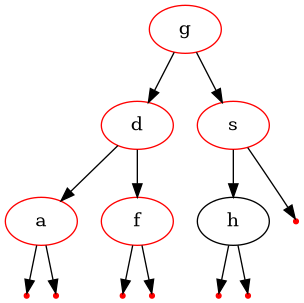
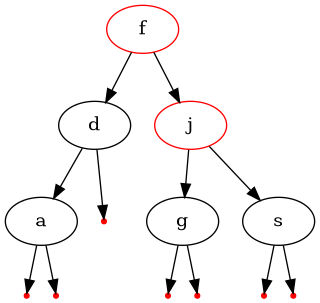
add avl tree functions

diff --git a/lab_07_01_hash_table_avl_tree/src/avl_tree.c b/lab_07_01_hash_table_avl_tree/src/avl_tree.c
@@ -26,7 +26,7 @@ void print_data(avl_tree_t *subtree, void *arg)
 {
     (void)arg;
     data_t data = subtree->data;
-    printf("%d ", data.value);
+    printf("%c ", data.value);
 }
 
 /**
@@ -255,9 +255,17 @@ void avl_tree_apply_inorder(avl_tree_t *tree, avl_tree_apply_fn_t apply_func, vo
     if (!tree)
         return;
 
-    avl_tree_apply_inorder(tree->left, apply_func, arg);
+    int *i_arg = NULL;
+    if (arg)
+        i_arg = arg;
+
+    // int *i_null = NULL;
+    //*i_null = 0;
+    avl_tree_apply_inorder(tree->left, apply_func, NULL);
     apply_func(tree, arg);
-    avl_tree_apply_inorder(tree->right, apply_func, arg);
+    avl_tree_apply_inorder(tree->right, apply_func, NULL);
+    if (i_arg && *i_arg == 1)
+        printf("\n");
 }
 
 void avl_tree_apply_postorder(avl_tree_t *tree, avl_tree_apply_fn_t apply_func, void *arg)
@@ -300,6 +308,160 @@ void avl_tree_convert_from_string(avl_tree_t **tree, char *string)
         avl_tree_insert(tree, data);
         ptr++;
     }
+}
+
+avl_tree_t *avl_tree_find_min_node(avl_tree_t *tree)
+{
+    if (tree == NULL)
+        return NULL;
+
+    if (tree->left)
+        return avl_tree_find_min_node(tree->left);
+
+    return tree;
+}
+
+/**
+ * @brief Функция балансирует AVL дерево
+ * @param[in] root корень дерева
+ * @return Новый указатель на корень
+ */
+avl_tree_t *avl_tree_node_balance(avl_tree_t *root)
+{
+    if (root == NULL)
+        return NULL;
+
+    avl_tree_fix_height(root);
+    int balance_factor = avl_tree_calculate_balance_factor(root);
+    if (balance_factor > 1)
+    {
+        if (avl_tree_calculate_balance_factor(root->left) < 0)
+        {
+            root->left = avl_tree_rotate_left(root->left);
+        }
+        return avl_tree_rotate_right(root);
+    }
+    else if (balance_factor < -1)
+    {
+        if (avl_tree_calculate_balance_factor(root->right) > 0)
+        {
+            root->right = avl_tree_rotate_right(root->right);
+        }
+        return avl_tree_rotate_left(root);
+    }
+
+    return root;
+}
+
+/**
+ * @brief Функция удаляет узел с минимальным ключе
+ * @param[in] head Указатель на дерево
+ * @return Указатель на новый корень
+ */
+static avl_tree_t *avl_tree_remove_min_node(avl_tree_t *tree)
+{
+    if (tree == NULL)
+        return NULL;
+
+    if (tree->left == NULL)
+        return tree->right;
+
+    tree->left = avl_tree_remove_min_node(tree->left);
+
+    return avl_tree_node_balance(tree);
+}
+
+/**
+ * @brief Удаление элемента из дерева
+ * @param[in] tree Указатель на дерево
+ * @param[in] element элемент
+ */
+avl_tree_t *avl_tree_remove(avl_tree_t *tree, data_t element)
+{
+    if (tree == NULL)
+        return NULL;
+
+    int cmp = tree->data.value - element.value;
+    if (cmp > 0)
+        tree->left = avl_tree_remove(tree->left, element);
+    else if (cmp < 0)
+        tree->right = avl_tree_remove(tree->right, element);
+    else
+    {
+        avl_tree_t *left = tree->left;
+        avl_tree_t *right = tree->right;
+        avl_tree_free_node(tree);
+
+        if (right == NULL)
+        {
+            return left;
+        }
+
+        avl_tree_t *min_node = avl_tree_find_min_node(right);
+        min_node->right = avl_tree_remove_min_node(right);
+        min_node->left = left;
+
+        tree = min_node;
+    }
+    return avl_tree_node_balance(tree);
+}
+
+/**
+ * @brief Функция ищет ноду по элементу
+ * @param[in] root Указатель на дерево
+ * @param[in] element Элемент поиска
+ * @return Нода, сеарч.
+ */
+avl_tree_t *avl_tree_search(avl_tree_t *root, data_t element)
+{
+    if (root == NULL)
+        return NULL;
+
+    int cmp = root->data.value - element.value;
+    if (cmp == 0)
+    {
+        return root;
+    }
+    else if (cmp > 0)
+    {
+        return avl_tree_search(root->left, element);
+    }
+    else
+    {
+        return avl_tree_search(root->right, element);
+    }
+}
+
+size_t avl_tree_calc_memory(avl_tree_t *root)
+{
+    if (root == NULL)
+        return 0;
+
+    return sizeof(avl_tree_t) + avl_tree_calc_memory(root->left) + avl_tree_calc_memory(root->right);
+}
+
+static void calc_depth_sum(avl_tree_t *root, int current_depth, int *total_depth, int *total_nodes)
+{
+    if (root == NULL)
+        return;
+
+    *total_depth += current_depth;
+    (*total_nodes)++;
+
+    calc_depth_sum(root->left, current_depth + 1, total_depth, total_nodes);
+    calc_depth_sum(root->right, current_depth + 1, total_depth, total_nodes);
+}
+
+float avl_tree_calc_avg_compare(avl_tree_t *root)
+{
+    if (root == NULL)
+        return 0.0f;
+
+    int total_depth = 0;
+    int total_nodes = 0;
+
+    calc_depth_sum(root, 1, &total_depth, &total_nodes);
+    return (float)total_depth / total_nodes;
 }
 
 void avl_tree_test(void)
@@ -364,53 +526,47 @@ void avl_tree_test(void)
         else if (test_operation == TEST_TREE_REMOVE)
         {
             if (is_first)
-                return;
-            // Удаление из дерева
-            /*data_t data = {0};
+            {
+                print_warning_message(WARNING_TREE);
+                continue;
+            }
+            data_t data = { 0 };
             if (input_data(&data, "Введите один символ для удаления из дерева:") != ERR_OK)
+            {
+                printf("%sОшибка ввода данных%s\n", YELLOW, RESET);
+                continue;
+            }
+            clock_gettime(CLOCK_MONOTONIC_RAW, &start);
+            tree = avl_tree_remove(tree, data);
+            clock_gettime(CLOCK_MONOTONIC_RAW, &end);
+            float time = (end.tv_sec - start.tv_sec) * 1e6f + (end.tv_nsec - start.tv_nsec) / 1e3f;
+            if (tree)
+                printf("%sУдален элемент %c из дерева. Время удаления: %.2f%s\n", GREEN, tree->data.value, time, RESET);
+            else
+                print_warning_message(WARNING_ELEMENT_NOT_FOUND);
+        }
+        else if (test_operation == TEST_TREE_SEARCH)
+        {
+            data_t data = { 0 };
+            if (input_data(&data, "Введите один символ для поиска в дереве:") != ERR_OK)
             {
                 printf("%sОшибка ввода данных%s\n", YELLOW, RESET);
                 continue;
             }
 
             clock_gettime(CLOCK_MONOTONIC_RAW, &start);
-            if ((rc = bin_tree_remove(&tree, data)) != ERR_OK)
+            avl_tree_t *node = avl_tree_search(tree, data);
+            clock_gettime(CLOCK_MONOTONIC_RAW, &end);
+            float time = (end.tv_sec - start.tv_sec) * 1e6f + (end.tv_nsec - start.tv_nsec) / 1e3f;
+
+            if (node)
             {
-                print_warning_message(rc);
-                clock_gettime(CLOCK_MONOTONIC_RAW, &end);
+                printf("%sЭлемент найден. Время поиска: %.2f%s\n", GREEN, time, RESET);
             }
             else
             {
-                clock_gettime(CLOCK_MONOTONIC_RAW, &end);
-                float time = (end.tv_sec - start.tv_sec) * 1e6f + (end.tv_nsec - start.tv_nsec) / 1e3f;
-                printf("%sУдален элемент %c из дерева. Время удаления: %.2f%s\n", GREEN, data.value, time, RESET);
-            }*/
-        }
-        else if (test_operation == TEST_TREE_SEARCH)
-        {
-            /* data_t data = {0};
-             if (input_data(&data, "Введите один символ для поиска в дереве:") != ERR_OK)
-             {
-                 printf("%sОшибка ввода данных%s\n", YELLOW, RESET);
-                 continue;
-             }
-
-             clock_gettime(CLOCK_MONOTONIC_RAW, &start);
-             bst_tree_t *node = bin_tree_search(tree, data);
-             clock_gettime(CLOCK_MONOTONIC_RAW, &end);
-             float time = (end.tv_sec - start.tv_sec) * 1e6f + (end.tv_nsec - start.tv_nsec) / 1e3f;
-
-             if (node)
-             {
-                 printf("%sЭлемент найден. Время поиска: %.2f%s\n", GREEN, time, RESET);
-                 bin_tree_inorder_traversal(tree, 1, 1);
-                 bin_tree_in_picture(tree);
-                 bin_tree_search_reset(tree);
-             }
-             else
-             {
-                 printf("%sЭлемент не найден%s\n", YELLOW, RESET);
-             }*/
+                print_warning_message(WARNING_ELEMENT_NOT_FOUND);
+            }
         }
         else if (test_operation == TEST_TREE_SHOW)
         {
@@ -420,22 +576,23 @@ void avl_tree_test(void)
         else if (test_operation == TEST_TREE_INORDER)
         {
             // Инфиксный обход
-            // bin_tree_inorder_traversal(tree, 1, 0);
+            int param = 1;
+            avl_tree_apply_inorder(tree, print_data, &param);
         }
         else if (test_operation == TEST_TREE_STATS)
         {
             // Статистика о дереве
-            // printf("Дерево занимает в памяти %zu байт\n", bin_tree_calc_memory(tree));
-            // printf("Среднее количество сравнений %.3f\n", bin_tree_calc_avg_compare(tree));
+            printf("Дерево занимает в памяти %zu байт\n", avl_tree_calc_memory(tree));
+            printf("Среднее количество сравнений %.3f\n", avl_tree_calc_avg_compare(tree));
         }
         else if (test_operation == TEST_TREE_UNKNOWN)
         {
             // Операция неизвестна
-            // printf("%sНеизвестная операция\n%s", YELLOW, RESET);
+            print_warning_message(WARNING_OPERATION);
         }
         else if (test_operation == TEST_TREE_ERROR)
         {
-            // printf("%sВыбор неверной операции%s\n", RED, RESET);
+            printf("%sВыбор неверной операции%s\n", RED, RESET);
             goto exit;
         }
     }

diff --git a/lab_07_01_hash_table_avl_tree/inc/avl_tree.h b/lab_07_01_hash_table_avl_tree/inc/avl_tree.h
@@ -3,6 +3,7 @@
 
 #include "constants.h"
 #include "errors.h"
+#include <stdio.h>
 
 typedef struct _avl_tree_type_ avl_tree_t;
 typedef void (*avl_tree_apply_fn_t)(avl_tree_t *subtree, void *arg);
@@ -17,13 +18,20 @@ avl_tree_t *avl_tree_create_node(data_t data);
 void avl_tree_free(avl_tree_t *root);
 
 // Функции для работы с деревом
-
 // Вставка элемента в дерево
 error_t avl_tree_insert(avl_tree_t **tree, data_t data);
-
+// Удаление элемента из AVL дерева
+avl_tree_t *avl_tree_remove(avl_tree_t *tree, data_t element);
+// Поиск элемента в AVL дереве
+avl_tree_t *avl_tree_search(avl_tree_t *root, data_t element);
 
 // обходы дерева
 void avl_tree_apply_preorder(avl_tree_t *tree, avl_tree_apply_fn_t apply_fn, void *arg);
 void avl_tree_apply_inorder(avl_tree_t *tree, avl_tree_apply_fn_t apply_func, void *arg);
 void avl_tree_apply_postorder(avl_tree_t *tree, avl_tree_apply_fn_t apply_func, void *arg);
+
+// Подсчет статистики
+size_t avl_tree_calc_memory(avl_tree_t *root);
+float avl_tree_calc_avg_compare(avl_tree_t *root);
+
 #endif

diff --git a/lab_07_01_hash_table_avl_tree/src/bin_search_tree.c b/lab_07_01_hash_table_avl_tree/src/bin_search_tree.c
@@ -192,7 +192,7 @@ int bin_tree_remove(bst_tree_t **root, data_t data)
         }
     }
     else
-        return WARNING_NO_EL;
+        return WARNING_ELEMENT_NOT_FOUND;
     return ERR_OK;
 }
 
@@ -438,7 +438,7 @@ void binary_tree_test(void)
         else if (test_operation == TEST_TREE_UNKNOWN)
         {
             // Операция неизвестна
-            printf("%sНеизвестная операция\n%s", YELLOW, RESET);
+            print_warning_message(WARNING_OPERATION);
         }
         else if (test_operation == TEST_TREE_ERROR)
         {

diff --git a/lab_07_01_hash_table_avl_tree/src/menu.c b/lab_07_01_hash_table_avl_tree/src/menu.c
@@ -38,9 +38,11 @@ void print_warning_message(int arg)
     case WARNING_TREE:
         printf("Пустое дерево\n");
         break;
-    case WARNING_NO_EL:
+    case WARNING_ELEMENT_NOT_FOUND:
         printf("Такого элемента нет в дереве\n");
         break;
+    case WARNING_OPERATION:
+    printf("Неверный выбор операции\n");
     }
     printf("%s", RESET);
 }

diff --git a/lab_06_binary_tree/src/menu.c b/lab_06_binary_tree/src/menu.c
@@ -35,7 +35,7 @@ void print_warning_message(int arg)
     case WARNING_TREE:
         printf("Пустое дерево\n");
         break;
-    case WARNING_NO_EL:
+    case WARNING_ELEMENT_NOT_FOUND:
         printf("Нет такого элемента в дереве\n");
         break;
     }

diff --git a/lab_07_01_hash_table_avl_tree/inc/errors.h b/lab_07_01_hash_table_avl_tree/inc/errors.h
@@ -13,7 +13,8 @@
 
 #define WARNING_REPEAT -1
 #define WARNING_TREE -2
-#define WARNING_NO_EL -3
+#define WARNING_ELEMENT_NOT_FOUND -3
+#define WARNING_OPERATION -4
 
 typedef short error_t;
 #endif

diff --git a/lab_06_binary_tree/src/binary_tree.c b/lab_06_binary_tree/src/binary_tree.c
@@ -101,7 +101,7 @@ int tree_remove(tree_t **root, data_t data)
         }
     }
     else
-        return WARNING_NO_EL;
+        return WARNING_ELEMENT_NOT_FOUND;
     return ERR_OK;
 }
 
